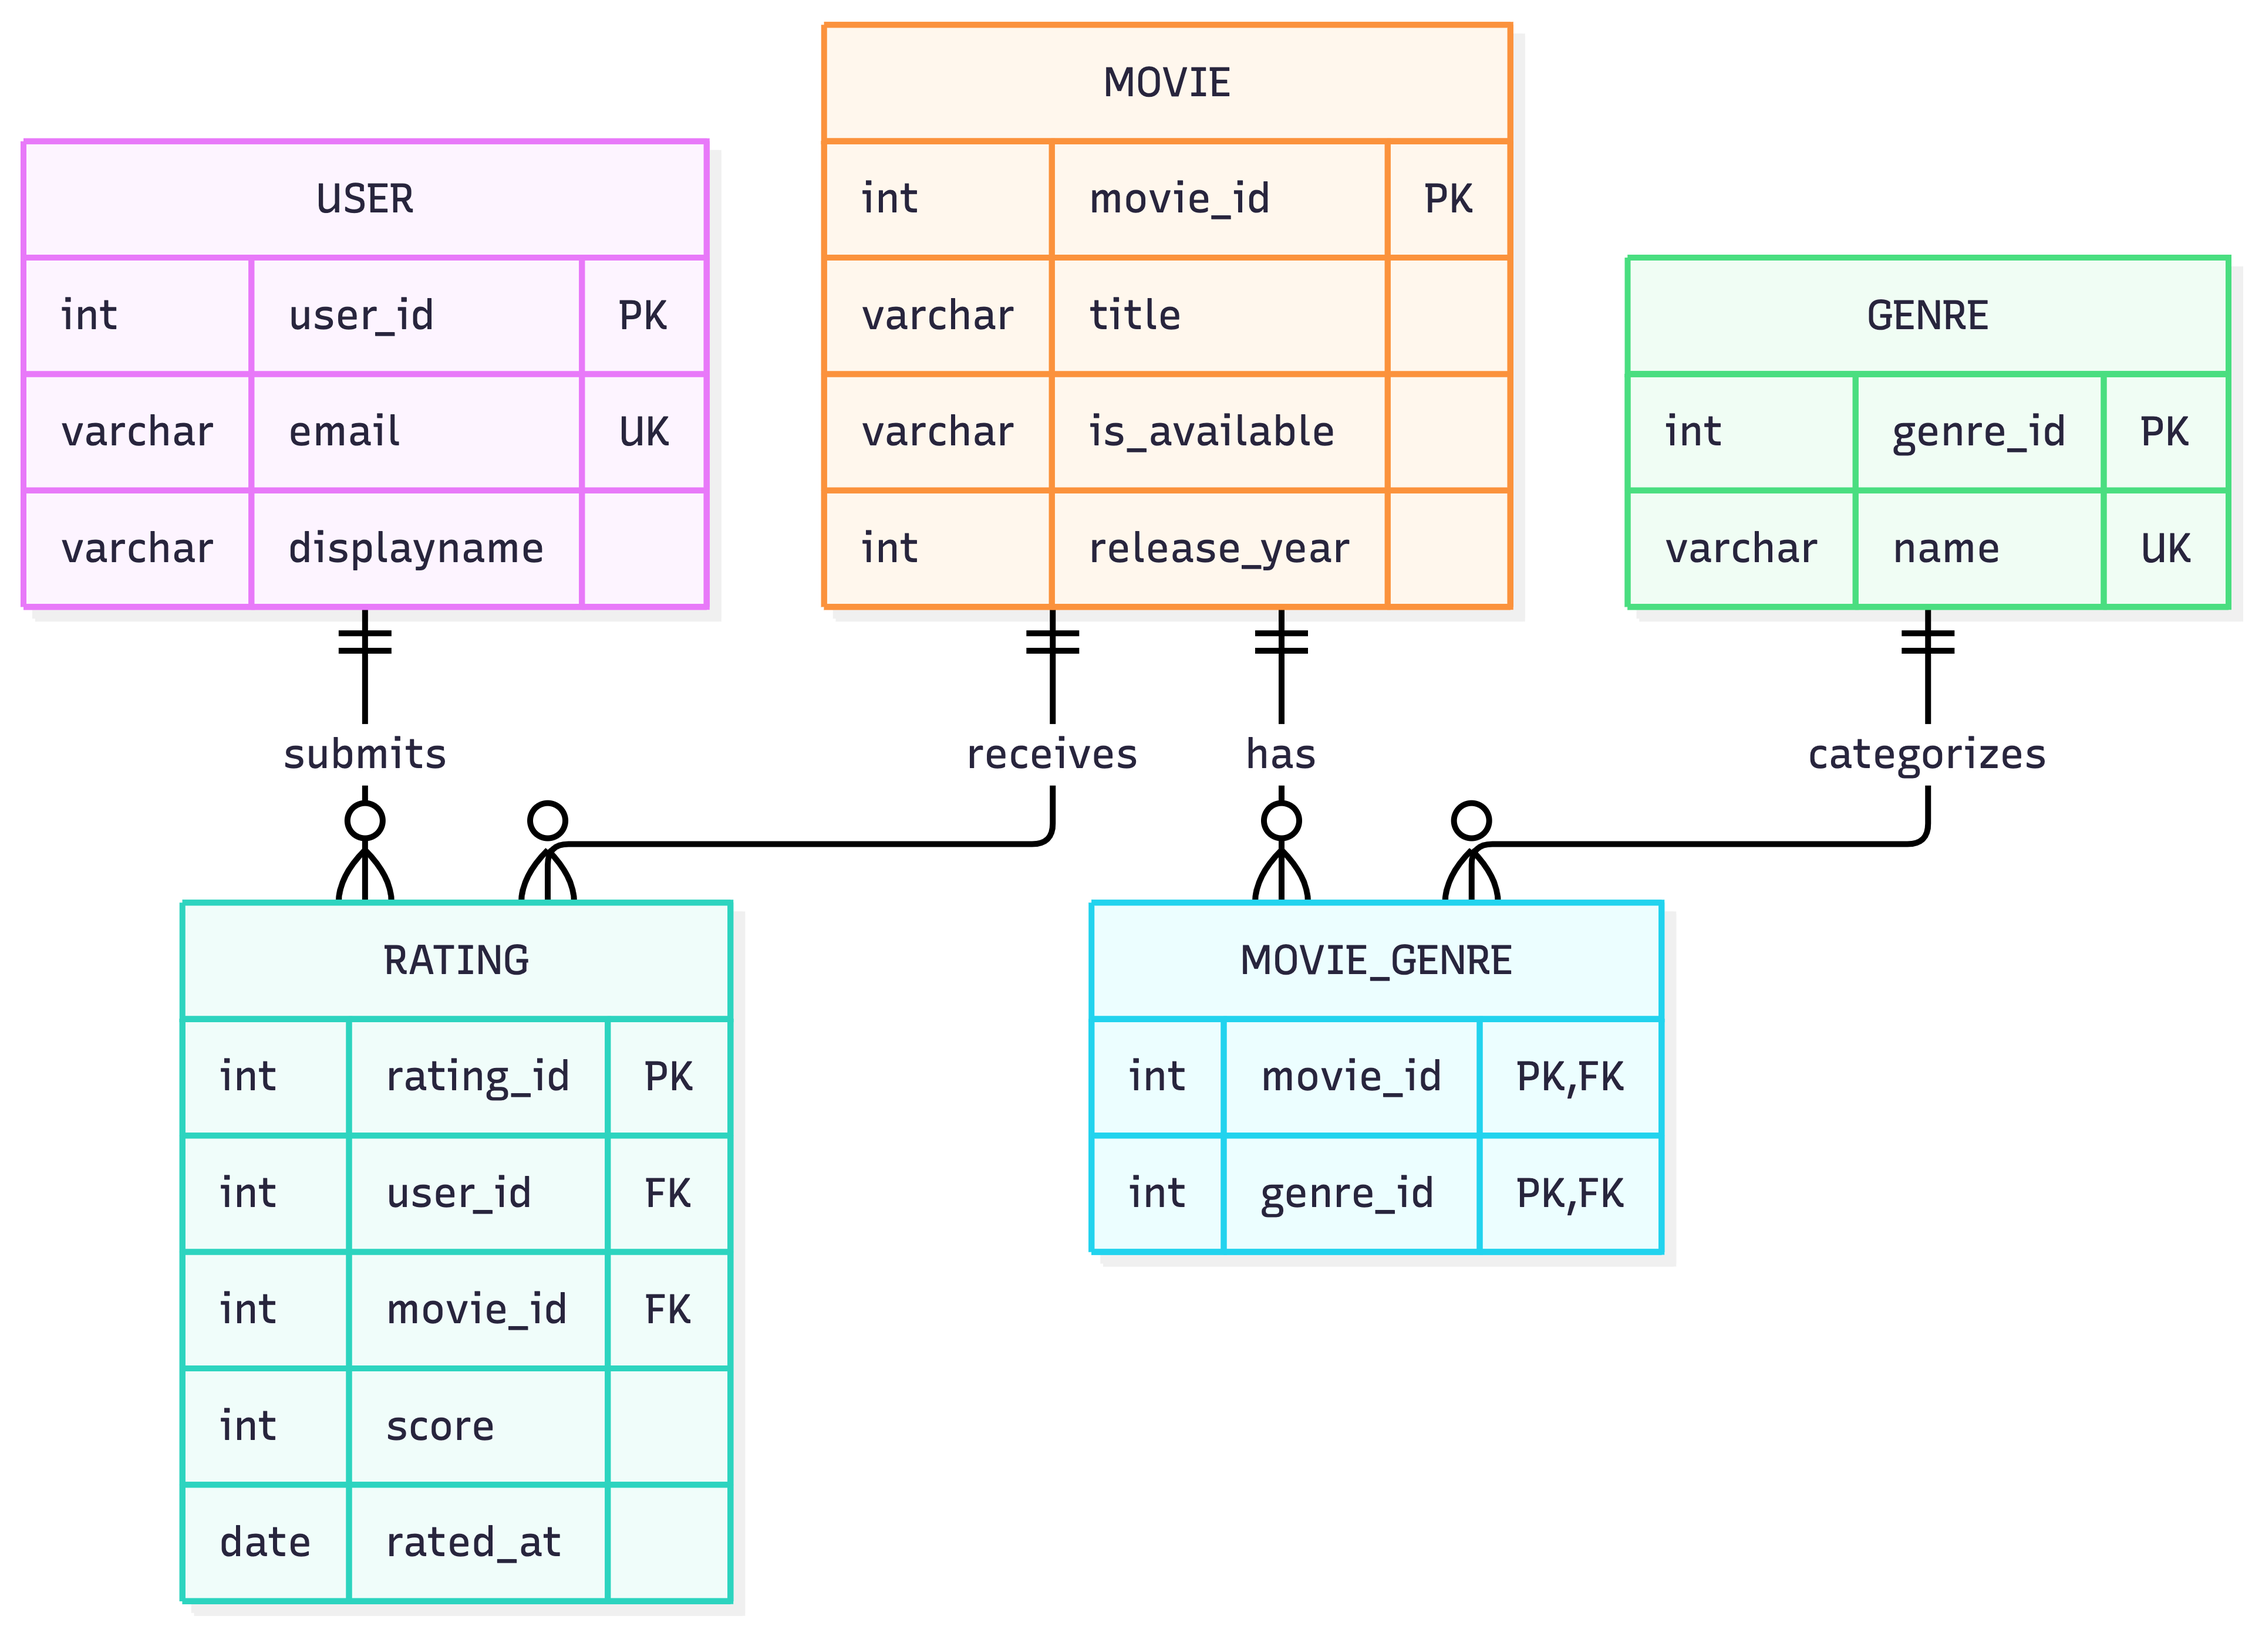
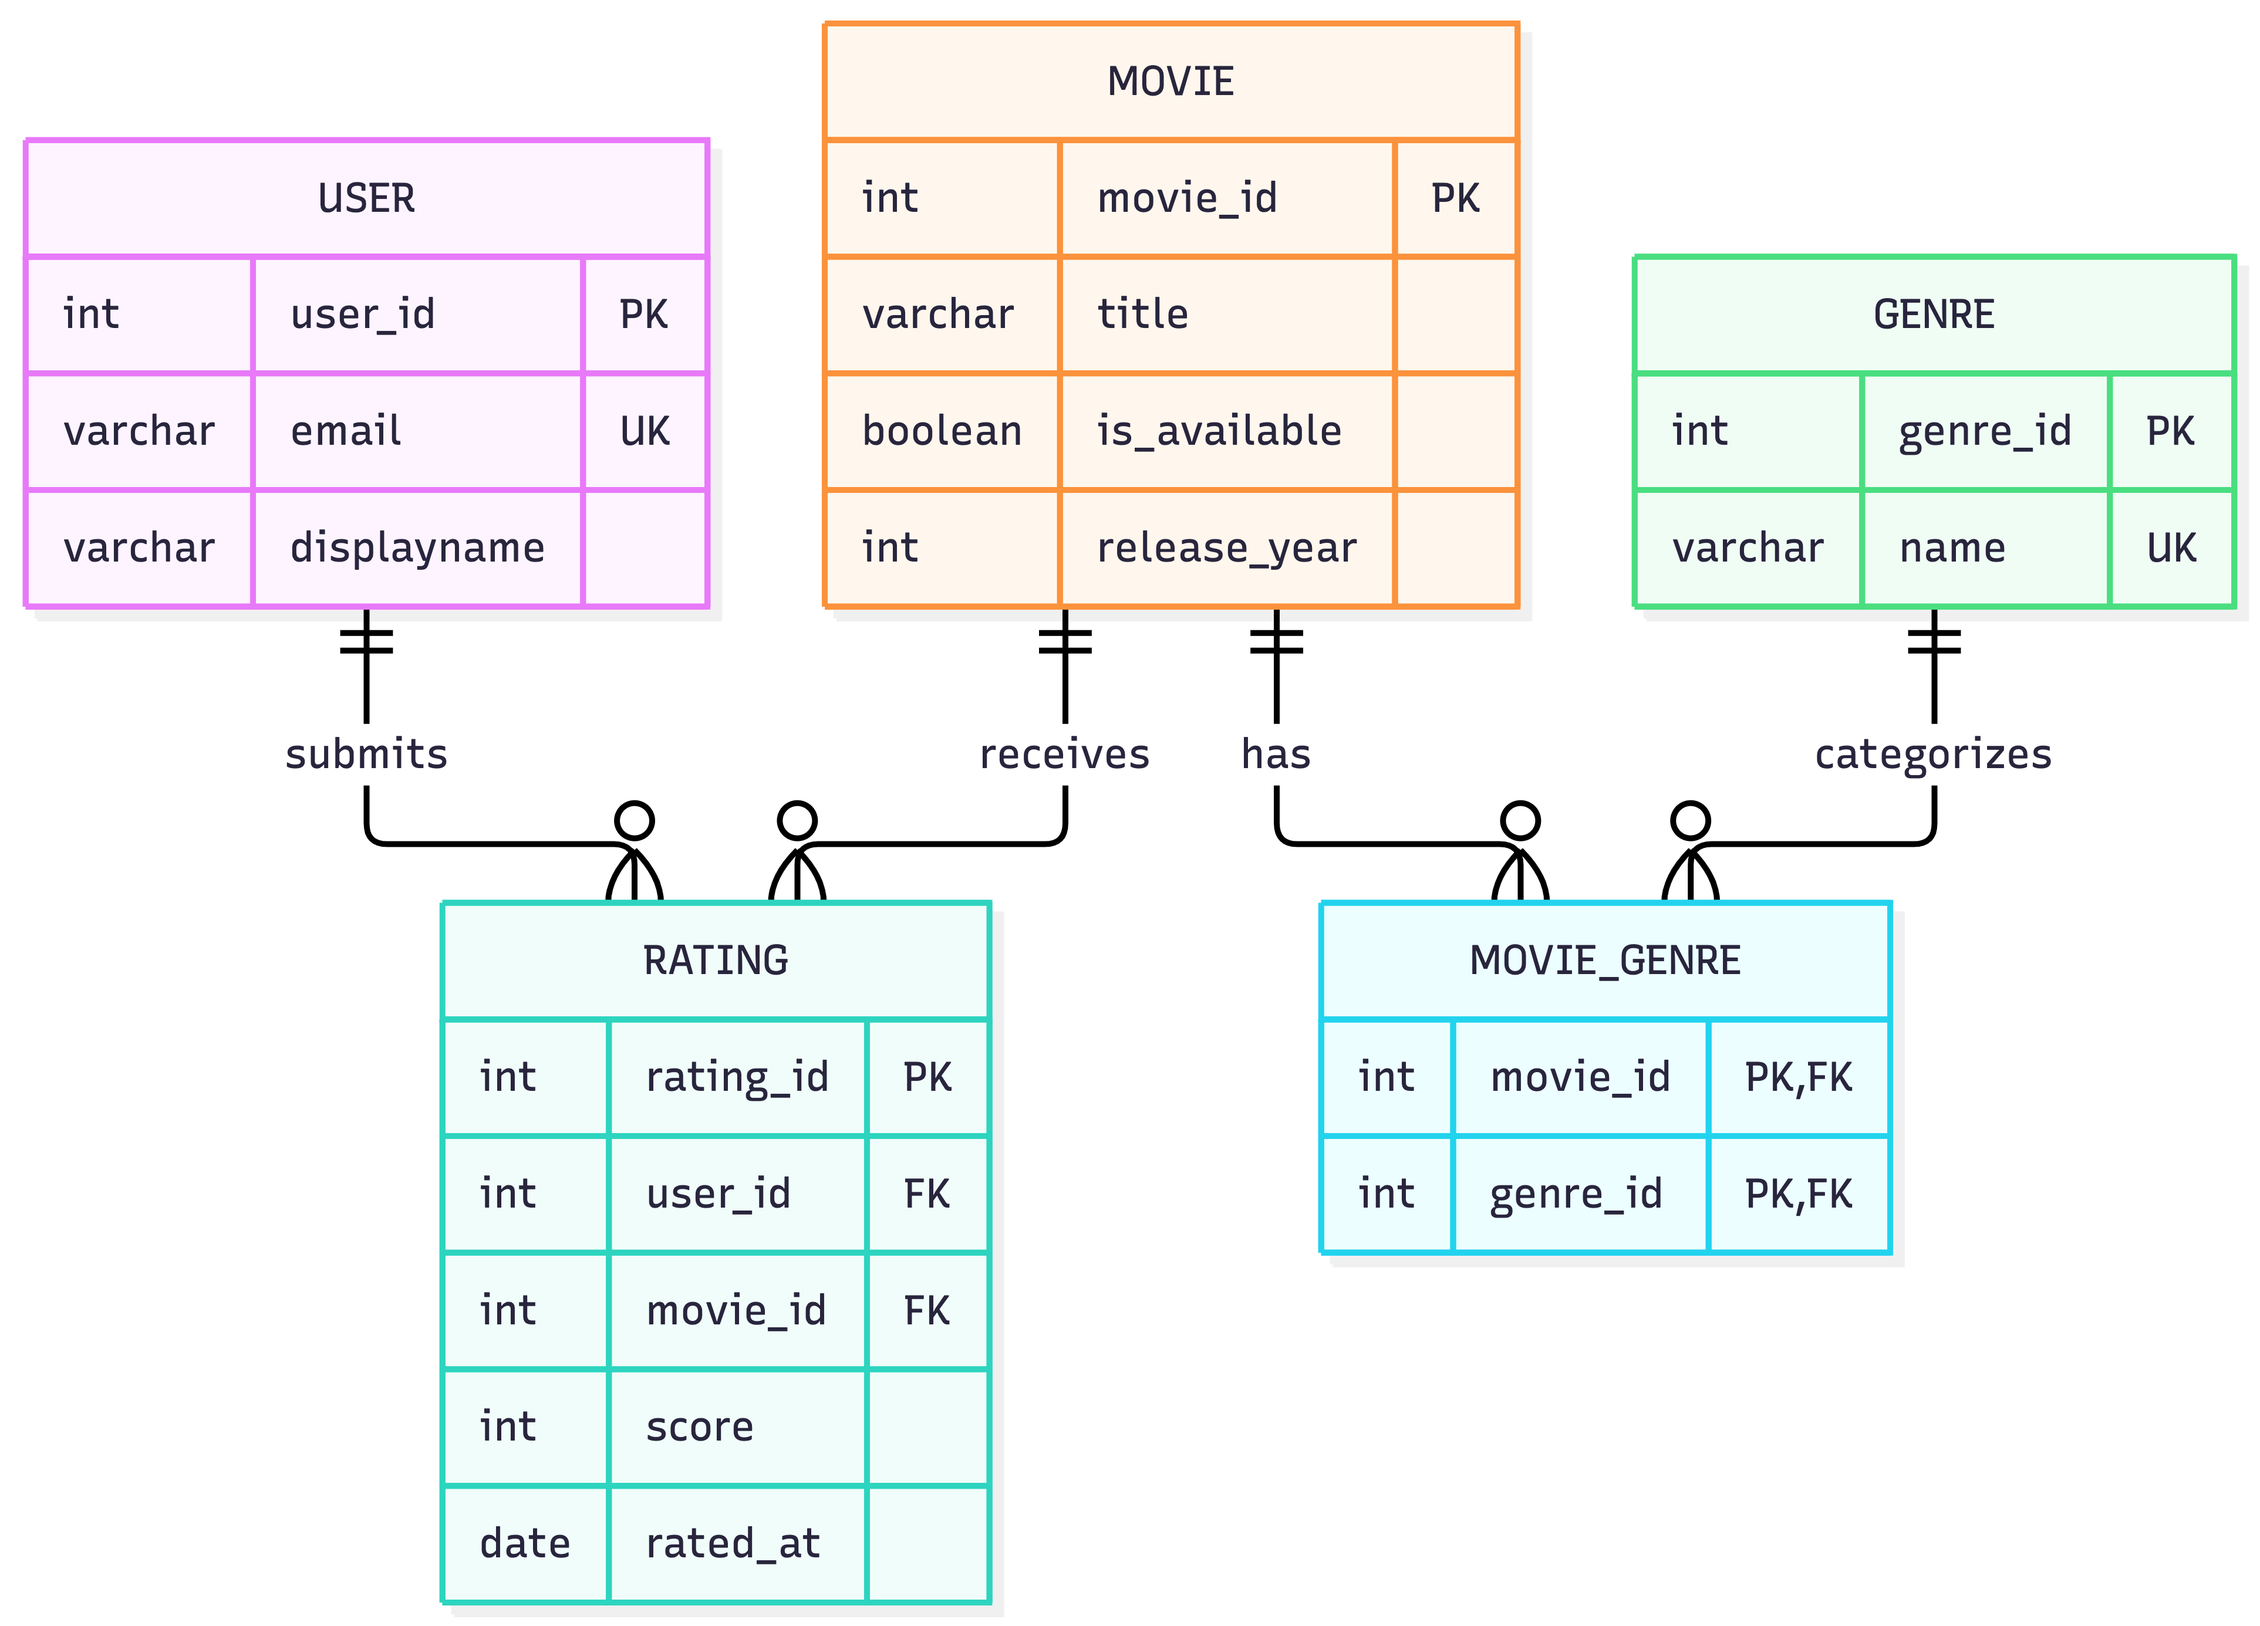
commiting diagram to database changes

diff --git a/analysis/unit2.md b/analysis/unit2.md
@@ -1,0 +1,22 @@
+## Task 2.2: Constraint reasoning
+
+### Foreign-key constraints
+
+| Foreign key | ON DELETE choice | Reason |
+|---|---|---|
+| `movie_genre.movie_id` references `movie.movie_id` | `CASCADE` | A movie-genre link has no meaning after its movie is deleted, so the dependent junction row should be removed automatically. |
+| `movie_genre.genre_id` references `genre.genre_id` | `RESTRICT` | A genre may be shared by many movies, so deleting it must be blocked while any movie still uses it. |
+| `rating.movie_id` references `movie.movie_id` | `RESTRICT` | A movie with ratings must not be hard-deleted because those ratings are historical user data that should remain valid. |
+| `rating.user_id` references `users.user_id` | `CASCADE` | Deleting a user account should also delete that user's ratings because the ratings are personal activity belonging to the deleted account. |
+
+The `movie_genre.movie_id` foreign key governs what happens when a producer removes a movie from the database. The affected rows are the matching entries in `movie_genre`, which only record the association between that movie and its genres. `CASCADE` removes those association rows automatically, preventing orphaned links. Under `RESTRICT`, the movie deletion would fail until every junction row was removed manually. That would be safe but unnecessarily cumbersome, and it could leave stale associations if the cleanup were forgotten. In normal platform use, a movie should be retired by changing `movie.is_available` to `false`; the cascade is a safety rule for a genuine hard delete.
+
+The `movie_genre.genre_id` foreign key governs what happens when an administrator tries to remove a genre from the catalog. The affected data is any `movie_genre` row that still uses that genre. `RESTRICT` blocks the deletion while the genre is attached to one or more movies, protecting the classification data from becoming inconsistent. Under `CASCADE`, deleting a shared genre would silently remove every movie's association with it. That could unexpectedly change the genre information shown for many movies. An administrator must therefore remove or reassign the associations deliberately before deleting the genre.
+
+The `rating.movie_id` foreign key governs what happens when a producer or administrator attempts to hard-delete a movie. The affected records would be all ratings submitted for that movie. `RESTRICT` prevents the deletion, preserving the referential link between each rating and the movie it describes. The intended platform event is usually a soft retirement: setting `is_available` to `false` hides the movie from new catalog activity while retaining its ratings for historical averages and reporting. Under `CASCADE`, hard-deleting the movie would also delete all of its ratings, destroying community history and changing aggregate scores. Under `SET NULL`, the database would retain ratings that no longer identify what was rated, which would make them unusable and conflict with the required `NOT NULL` foreign key.
+
+The `rating.user_id` foreign key governs what happens when a user deletes their account. The affected records are that user's ratings. `CASCADE` removes them automatically, which supports a privacy-oriented account deletion and avoids retaining personal activity after the account is gone. Under `RESTRICT`, account deletion would fail whenever the user had ratings, forcing the application to find and delete those ratings separately and increasing the risk of incomplete cleanup. Under `SET NULL`, the ratings would remain but would no longer identify their author; that is not the chosen privacy policy and is incompatible with the `NOT NULL` constraint on `rating.user_id`.
+
+### CHECK constraints
+
+The `rating.score BETWEEN 1 AND 10` check makes ratings below 1 and above 10 impossible to store. Without it, invalid values such as `0`, `-1`, or `11` could enter the table through a bug, an import, or a client that bypasses normal application validation. Those values would distort average-rating calculations and make scores inconsistent with the platform's ten-point rating scale.

diff --git a/README.md b/README.md
@@ -19,3 +19,22 @@ CineRate is a platform designed to help users make informed decisions about what
 
 The platform must answer several core questions to be useful. For any given title, it needs to answer: What is the average rating, and how many people have rated it? For any given user, it needs to answer: What have they rated, and what might they enjoy next based on their rating history.
 
+## Schema
+
+The current PostgreSQL schema contains five tables:
+
+- `users` stores registered users. Each user has an integer primary key, a required display name, and a unique email address.
+- `movie` stores catalog titles, including the title, release year, and an `is_available` flag. A movie can be retired without removing its historical data.
+- `genre` stores reusable genre names. Genre names are unique so the catalog cannot contain duplicate classifications.
+- `movie_genre` is the junction table for the many-to-many relationship between movies and genres. Its composite primary key, `(movie_id, genre_id)`, prevents the same genre from being assigned to the same movie more than once.
+- `rating` stores a user's rating of a movie, including the score and date submitted. It has its own primary key and foreign keys to both `users` and `movie`.
+
+Several design decisions are worth noticing:
+
+- The schema uses integer surrogate primary keys rather than titles, email addresses, or genre names as identifiers. Descriptive values can change, while referenced IDs remain stable.
+- Foreign keys enforce referential integrity. Deleting a movie cascades to its `movie_genre` links, but is restricted when ratings exist so rating history is not accidentally destroyed. Deleting a genre is restricted while it is still assigned to a movie. Deleting a user cascades to that user's ratings to support account removal and privacy.
+- `rating.score` is constrained to the 1-to-10 range with a `CHECK` constraint. Required identifiers and attributes use `NOT NULL`, so incomplete rows cannot be stored.
+- The `is_available` flag supports soft retirement: a movie can be removed from active browsing while remaining available for historical ratings and aggregate reporting.
+
+The product description mentions movies and TV shows, but the current schema models movies only. Supporting TV shows requires either a separate TV-show model or a shared media table before ratings can apply to both types without ambiguity.
+
